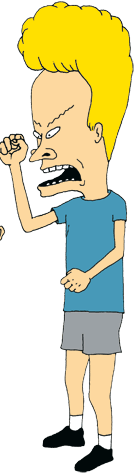
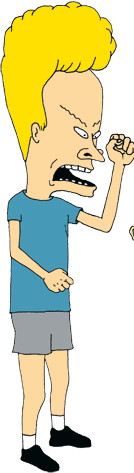
add chars

diff --git a/main.py b/main.py
@@ -2,15 +2,14 @@ import pygame
 import menu
 from room_location import Room
 
-
-# инициализация pygame 
+# инициализация pygame
 pygame.init()
 
 # расширение по умолчанию
 default_width = 1280
 default_height = 720
 
-# создание экрана 
+# создание экрана
 screen = pygame.display.set_mode((default_width, default_height))
 
 # установка заголовка экрана (название игры)
@@ -26,7 +25,7 @@ game_state = "main_menu"
 # создание объекта комнаты
 room = Room(screen, 'graphic/Room(alpha).png')
 
-# кнопки управления персонажамми 
+# кнопки управления персонажами
 keys = {
     "left": False,
     "right": False,
@@ -34,10 +33,11 @@ keys = {
     "down": False
 }
 
+active_character = room.beavis
 
 # главный цикл игры
 while True:
-    # обработчик событий 
+    # обработчик событий
     events = pygame.event.get()
     for event in events:
         if event.type == pygame.QUIT:
@@ -62,7 +62,16 @@ while True:
                 keys["up"] = False
             elif event.key == pygame.K_DOWN:
                 keys["down"] = False
-        
+
+            elif event.key == pygame.K_z:
+                active_character.flip()
+
+            elif event.key == pygame.K_TAB:
+                if active_character == room.beavis:
+                    active_character = room.butthead
+                else:
+                    active_character = room.beavis
+
     if game_state == "main_menu":
         # отображение главного меню
         next_state = menu.display_main_menu(screen, default_width, default_height, events)
@@ -72,13 +81,17 @@ while True:
         dx, dy = 0, 0
         if keys["left"]:
             dx = -1
+            if not active_character.fliped:
+                active_character.flip()
         if keys["right"]:
             dx = 1
+            if active_character.fliped:
+                active_character.flip()
         if keys["up"]:
             dy = -1
         if keys["down"]:
             dy = 1
-        room.beavis.move(dx, dy)
+        active_character.move(dx, dy)
         room.display()
 
     # обновление экрана

diff --git a/characters.py b/characters.py
@@ -18,9 +18,19 @@ class Character:
         self.is_jumping = False
         self.action_key = False
         self.image = pygame.image.load(image_path)
+        self.fliped_image = pygame.transform.flip(self.image, True, False)
+        self.fliped = False
     # функция отрисокви персонажа
     def draw(self, screen):
-        pygame.draw.rect(screen, self.color, pygame.Rect(self.x, self.y, self.width, self.height))
+        if self.fliped:
+            screen.blit(self.fliped_image, (self.x, self.y))
+        else:
+            screen.blit(self.image, (self.x, self.y))
+
+    
+    # Фунция, разворачивающая персонажа по оси x
+    def flip(self):
+        self.fliped = not self.fliped
     
     # функция, отвечающая за передвижение персонажей
     def move(self, dx, dy):
@@ -62,9 +72,7 @@ class Beavis(Character):
     def __init__(self, x, y):
         super().__init__(x, y, 36, 72, (100, 100, 100), 100, 100, 'graphic/beavis_image.png')
         self.image = pygame.image.load('graphic/beavis_image.png')
-
-    def draw(self, screen):
-        screen.blit(self.image, (self.x, self.y))
+    
 
     def move(self, dx, dy):
         self.x += dx
@@ -78,9 +86,6 @@ class Butthead(Character):
     def __init__(self, x, y):
         super().__init__(x, y, 36, 72, (150, 150, 150), 100, 100, 'graphic/butthead_image.png')
         self.image = pygame.image.load('graphic/butthead_image.png')
-
-    def draw(self, screen):
-        screen.blit(self.image, (self.x, self.y))
 
     def move(self, dx, dy):
         self.x += dx

diff --git a/room_location.py b/room_location.py
@@ -7,7 +7,7 @@ class Room:
         self.screen = screen
         self.background_image = pygame.image.load(background_image)
         self.beavis = Beavis(100, 100)
-        #self.butthead = Butthead(100, 100)
+        self.butthead = Butthead(200, 200)
 
         # координаты персонажей
         self.beavis_x = 100
@@ -28,10 +28,8 @@ class Room:
         self.screen.blit(self.background_image, (0, 0))
 
         # Отображение персонажей
-        #pygame.draw.rect(self.screen, self.beavis_color, pygame.Rect(self.beavis_x, self.beavis_y, self.player_width, self.player_height))
-        #pygame.draw.rect(self.screen, self.butthead_color, pygame.Rect(self.butthead_x, self.butthead_y, self.player_width, self.player_height))
         self.beavis.draw(self.screen)
-        #self.butthead.draw(self.screen)
+        self.butthead.draw(self.screen)
     def update(self):
         # Обновление персонажей(пока не используется)
         pass
